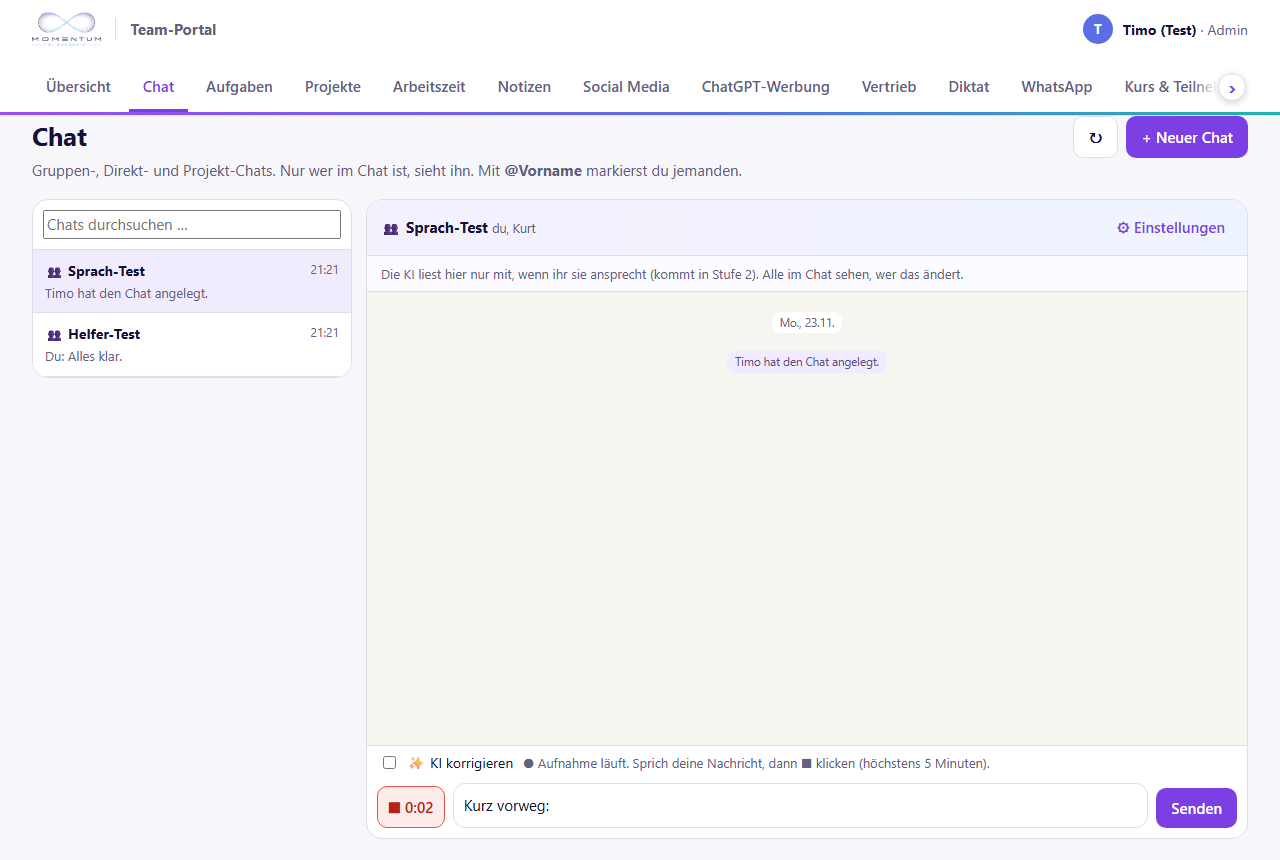
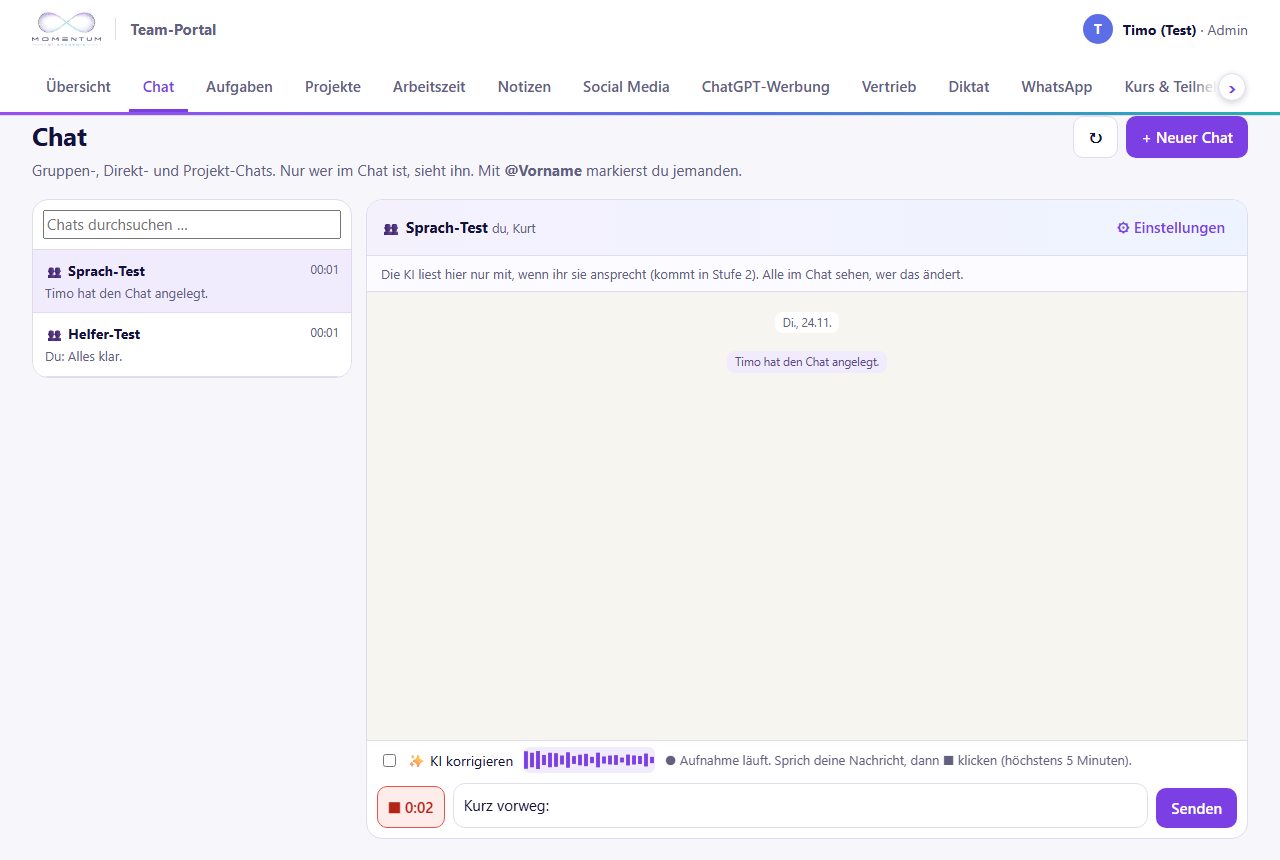
Aufnahme-Pegel im Chat und im Diktat, Zoom-Hinweis beim Gesprächsmitschnitt
Timo 24.11.2026: Beim Aufnehmen soll man sehen, dass aufgezeichnet wird –
Balken, die beim Sprechen ausschlagen. Wichtig beim Diktat, um zu sehen, ob
im Zoom-Gespräch auch die andere Person mit aufgenommen wird.

- pegelStarten(): Web-Audio-Analyse des Mikrofon-Streams, 22 Balken, läuft nur
  im Browser. Kommt etwa 3 Sekunden kein Ton an, erscheint eine Warnung.
- Chat-Sprachnachricht: Pegel neben dem Haken während der Aufnahme.
- Diktat (Verkaufschance und Register Diktat): Pegel neben „Stopp“; beim
  Haken „Gesprächsmitschnitt“ ein Hinweis: Mit Kopfhörern hört das Mikrofon
  die andere Person nicht, Ton auf Lautsprecher und auf den Pegel achten.
- Tests: Pegel sichtbar und schlägt aus (simuliertes Mikrofon), weg nach Stopp;
  Zoom-Hinweis nur beim Mitschnitt. office+chat 141 grün; vertrieb 1 rot wie main.

Changed region(s): [[0.3125, 0.8767, 0.875, 0.907], [0.5938, 0.3628, 0.6562, 0.393]]

diff --git a/docs/team/index.html b/docs/team/index.html
@@ -312,6 +312,8 @@ dialog.voll{width:96vw!important;max-width:96vw;height:94vh;max-height:94vh}
 .vtab tr.klick{cursor:pointer}.vtab tr.klick:hover td{background:#FAF9FE}
 .vnotiz{border-top:1px solid var(--line);padding:10px 0}.vnotiz .kopf{font-size:12.5px;color:var(--mut);margin-bottom:4px}
 .vbald{border:1px dashed #C9C2EE;background:#F7F5FE;border-radius:12px;padding:10px 12px;font-size:13.5px;color:var(--mut);margin:10px 0}
+.pegel{width:132px;height:26px;border-radius:7px;background:#F1ECFD;vertical-align:middle;flex:none}.pegel[hidden]{display:none!important}.pegel.leise{background:#FDECEA}
+.vd-zoom{margin-top:6px;padding:6px 8px;border-radius:8px;background:#FFF4E5;color:#7A4A00}
 .vdiktat{border:1px solid #C9C2EE;background:#F7F5FE;border-radius:12px;padding:10px 12px;font-size:13.5px;margin:10px 0}.vdiktat .act{display:flex;gap:8px;flex-wrap:wrap;align-items:center;margin-top:8px}.vdiktat textarea{width:100%;box-sizing:border-box;font:inherit;border:1px solid var(--line);border-radius:10px;padding:8px}.vdiktat [hidden]{display:none!important}.vdiktat .btn.rec{background:var(--red)}.vdiktat .punkt{display:inline-block;width:10px;height:10px;border-radius:50%;background:#fff;margin-right:6px;animation:vdpuls 1.2s ease-in-out infinite}@keyframes vdpuls{0%,100%{opacity:1}50%{opacity:.3}}@media (prefers-reduced-motion:reduce){.vdiktat .punkt{animation:none}}
 .vtreffer{border:1px solid var(--line);border-radius:10px;margin-top:4px;max-height:200px;overflow:auto}
 .vtreffer button{display:block;width:100%;text-align:left;border:0;border-bottom:1px solid var(--line);background:#fff;padding:7px 10px;cursor:pointer}
@@ -1873,6 +1875,7 @@ body[data-tab="whatsapp"] #kiBtn{display:none}
   }
   function chMikroZeigen() {
     const b = $('#ch_mic'); if (!b) return; const a = CH.aufnahme;
+    const pg = $('#ch_pegel'); if (pg) pg.hidden = !a;
     if (a) { const s = Math.round((Date.now() - a.start) / 1000); b.classList.add('rec'); b.textContent = '⏹ ' + Math.floor(s / 60) + ':' + String(s % 60).padStart(2, '0'); b.title = 'Aufnahme beenden und als Text einfügen'; b.disabled = false; }
     else { b.classList.remove('rec'); b.textContent = CH.diktat ? '…' : '🎙'; b.disabled = !!CH.diktat || !chMikroDa(); b.title = chMikroDa() ? 'Sprachnachricht: einsprechen, wird als Text eingefügt' : 'Aufnahme wird in diesem Browser nicht unterstützt'; }
   }
@@ -1885,10 +1888,12 @@ body[data-tab="whatsapp"] #kiBtn{display:none}
     const typ = ['audio/webm;codecs=opus', 'audio/webm', 'audio/mp4', 'audio/ogg;codecs=opus'].find(m => { try { return MediaRecorder.isTypeSupported(m); } catch (e) { return false; } }) || '';
     let rec; try { rec = new MediaRecorder(stream, typ ? { mimeType: typ } : undefined); } catch (e) { stream.getTracks().forEach(t => t.stop()); return chStatus(id, 'Die Aufnahme konnte nicht gestartet werden: ' + e.message); }
     const teile = [];
-    CH.aufnahme = { rec, stream, start: Date.now(), chat: id, timer: setInterval(() => { chMikroZeigen(); if (CH.aufnahme && Date.now() - CH.aufnahme.start > HELFER_AUFNAHME_MAX_SEK * 1000) rec.stop(); }, 500) };
+    const laeuftText = '⏺ Aufnahme läuft. Sprich deine Nachricht, dann ⏹ klicken (höchstens 5 Minuten).';
+    const pegel = pegelStarten(stream, () => $('#ch_pegel'), { onLeise: l => chStatus(id, l ? '⚠ Seit ein paar Sekunden kommt kein Ton an. Ist das richtige Mikrofon gewählt und nicht stumm?' : laeuftText) });
+    CH.aufnahme = { rec, stream, pegel, start: Date.now(), chat: id, timer: setInterval(() => { chMikroZeigen(); if (CH.aufnahme && Date.now() - CH.aufnahme.start > HELFER_AUFNAHME_MAX_SEK * 1000) rec.stop(); }, 500) };
     rec.ondataavailable = e => { if (e.data && e.data.size) teile.push(e.data); };
     rec.onstop = async () => {
-      const a = CH.aufnahme; CH.aufnahme = null; clearInterval(a.timer); stream.getTracks().forEach(t => t.stop());
+      const a = CH.aufnahme; CH.aufnahme = null; clearInterval(a.timer); a.pegel.stopp(); stream.getTracks().forEach(t => t.stop());
       const dauer = Math.round((Date.now() - a.start) / 1000), mt = rec.mimeType || typ || 'audio/webm', blob = new Blob(teile, { type: mt });
       if (blob.size < 1000 || dauer < 1) { chMikroZeigen(); return chStatus(id, 'Die Aufnahme war zu kurz.'); }
       CH.diktat = id; chMikroZeigen(); chStatus(id, '🎙 Wird in Text umgewandelt …');
@@ -1902,7 +1907,7 @@ body[data-tab="whatsapp"] #kiBtn{display:none}
       } catch (e) { chStatus(id, e.message); }
       finally { CH.diktat = null; chMikroZeigen(); }
     };
-    rec.start(1000); chMikroZeigen(); chStatus(id, '⏺ Aufnahme läuft. Sprich deine Nachricht, dann ⏹ klicken (höchstens 5 Minuten).');
+    rec.start(1000); chMikroZeigen(); chStatus(id, laeuftText);
   }
   async function chatApi(aktion, daten) {
     const r = await fetch(CHAT_API, { method: 'POST', headers: { 'Content-Type': 'text/plain;charset=UTF-8' }, body: JSON.stringify({ token: TOKEN, aktion, daten: daten || {} }) });
@@ -2076,7 +2081,7 @@ body[data-tab="whatsapp"] #kiBtn{display:none}
       (c.projekt ? '<details class="ch-proj"><summary>📁 Offene Aufgaben in „' + esc(c.projekt) + '“ (' + offeneA.length + ')</summary>' + (offeneA.length ? offeneA.slice(0, 8).map(a => '<button type="button" class="ch-aufg" data-a="' + esc(a.aufgabe_id) + '"><span class="chip ' + prioKl(a.prio) + '">P' + esc(a.prio) + '</span> ' + esc(a.titel) + '</button>').join('') : '<p class="small muted">Keine offenen Aufgaben.</p>') + '</details>' : '') +
       '<div class="wc-msgs" id="ch_msgs">' + (msgs || '<p class="muted" style="align-self:center">Noch keine Nachrichten.</p>') + '</div>' +
       '<div id="ch_hinw"></div>' +
-      '<div class="ch-werk"><label class="check" title="Die KI korrigiert Rechtschreibung und Zeichensetzung, der Inhalt bleibt. Du siehst die Fassung, bevor sie rausgeht."><input type="checkbox" id="ch_kik"' + (chKiHaken() ? ' checked' : '') + '><span>✨ KI korrigieren</span></label><span id="ch_mstat" class="ch-mstat" aria-live="polite"></span></div>' +
+      '<div class="ch-werk"><label class="check" title="Die KI korrigiert Rechtschreibung und Zeichensetzung, der Inhalt bleibt. Du siehst die Fassung, bevor sie rausgeht."><input type="checkbox" id="ch_kik"' + (chKiHaken() ? ' checked' : '') + '><span>✨ KI korrigieren</span></label><canvas class="pegel" id="ch_pegel" hidden aria-hidden="true" title="Pegel: schlägt aus, wenn das Mikrofon etwas hört"></canvas><span id="ch_mstat" class="ch-mstat" aria-live="polite"></span></div>' +
       '<form class="wc-ein" id="ch_form"><button type="button" class="btn sec ch-mic" id="ch_mic" aria-label="Sprachnachricht aufnehmen">🎙</button><textarea id="ch_text" rows="1" maxlength="' + CHAT_TEXT_MAX + '" placeholder="Nachricht … (Enter sendet, Umschalt+Enter = neue Zeile, @Vorname markiert)">' + esc(CH.entwurf[id] || '') + '</textarea><button class="btn" type="submit" id="ch_senden">Senden</button></form>';
     const box = $('#ch_msgs'); if (box && (warUnten || !scroll)) box.scrollTop = box.scrollHeight;
     $('#ch_zur').onclick = () => { CH.offen = null; setzeHash('#/tab/chat'); $('#ch').classList.remove('offen'); chListeZeigen(); chChatZeigen(); };
@@ -2539,10 +2544,56 @@ body[data-tab="whatsapp"] #kiBtn{display:none}
   // ---------- Diktat (Spracherkennung für Gesprächsnotizen, n8n-Workflow „TEAM: Diktat“) ----------
   // Aufnahme im Browser (MediaRecorder) oder Audiodatei → n8n → OpenAI-Transkription + KI-Bereinigung → bearbeitbarer Text → Aktivität in Twenty.
   // Gespeichert wird erst nach Klick auf „Als Aktivität speichern“. Vorbild: WhisperM (Flowtimotion-cyber/WhisperM, MIT).
+  // Pegelanzeige für Aufnahmen (Chat-Sprachnachricht und Diktat): Balken, die beim Sprechen ausschlagen, aus dem Mikrofon-Stream
+  // (Web Audio, nur im Browser, nichts wird gesendet). Kommt etwa 3 Sekunden lang kein Ton an, meldet onLeise(true), z. B. wenn
+  // im Zoom-Gespräch Kopfhörer stecken und das Mikrofon die andere Person nicht hört. canvasHolen liefert jedes Mal das aktuelle
+  // Element (das Portal zeichnet Bereiche neu). Am Canvas steht data-pegel (0–100) für Tests.
+  function pegelStarten(stream, canvasHolen, opts) {
+    opts = opts || {};
+    const AC = window.AudioContext || window.webkitAudioContext;
+    if (!AC || !stream) return { stopp() {} };
+    let ctx, quelle, an;
+    try { ctx = new AC(); quelle = ctx.createMediaStreamSource(stream); an = ctx.createAnalyser(); an.fftSize = 512; an.smoothingTimeConstant = 0.55; quelle.connect(an); }
+    catch (e) { return { stopp() {} }; }
+    if (ctx.state === 'suspended') ctx.resume().catch(() => {});
+    const freq = new Uint8Array(an.frequencyBinCount), welle = new Uint8Array(an.fftSize);
+    const BALKEN = 22, farbe = getComputedStyle(document.documentElement).getPropertyValue('--acc').trim() || '#6D3BD8';
+    let aus = false, raf = 0, leiseSeit = performance.now(), warLeise = false;
+    const malen = () => {
+      if (aus) return;
+      an.getByteFrequencyData(freq); an.getByteTimeDomainData(welle);
+      let q = 0; for (let i = 0; i < welle.length; i++) { const x = (welle[i] - 128) / 128; q += x * x; }
+      const laut = Math.sqrt(q / welle.length), jetzt = performance.now();
+      if (laut > 0.015) leiseSeit = jetzt;
+      const leise = jetzt - leiseSeit > 3000;
+      if (leise !== warLeise) { warLeise = leise; if (opts.onLeise) opts.onLeise(leise); }
+      const c = canvasHolen();
+      if (c && c.isConnected) {
+        const dpr = window.devicePixelRatio || 1, w = Math.max(1, Math.round(c.clientWidth * dpr)), h = Math.max(1, Math.round(c.clientHeight * dpr));
+        if (c.width !== w || c.height !== h) { c.width = w; c.height = h; }
+        const g = c.getContext('2d'); g.clearRect(0, 0, w, h);
+        const nutz = Math.floor(freq.length * 0.45), breit = w / BALKEN;
+        let max = 0;
+        for (let b = 0; b < BALKEN; b++) {
+          let summe = 0; const von = Math.floor(b * nutz / BALKEN), bis = Math.max(von + 1, Math.floor((b + 1) * nutz / BALKEN));
+          for (let i = von; i < bis; i++) summe += freq[i];
+          const wert = summe / (bis - von) / 255; max = Math.max(max, wert);
+          const bh = Math.max(2 * dpr, wert * (h - 4 * dpr));
+          g.fillStyle = leise ? '#C9BFE6' : farbe;
+          g.fillRect(b * breit + breit * 0.18, (h - bh) / 2, breit * 0.64, bh);
+        }
+        c.dataset.pegel = String(Math.round(max * 100)); c.classList.toggle('leise', leise);
+      }
+      raf = requestAnimationFrame(malen);
+    };
+    malen();
+    return { stopp() { aus = true; cancelAnimationFrame(raf); try { quelle.disconnect(); ctx.close(); } catch (e) {} } };
+  }
   function diktatBox() {
     return '<div class="vdiktat" id="v_diktat"><div>🎙 <b>Diktat nach dem Gespräch</b> <span class="small muted">Sprich ein, was besprochen wurde. Die KI schreibt es sauber auf und fasst zusammen. Gespeichert wird erst, wenn du auf „Als Aktivität speichern“ klickst.</span></div>' +
-      '<div class="act"><button type="button" class="btn" id="vd_rec">🎙 Aufnehmen</button><button type="button" class="btn rec" id="vd_stop" hidden><span class="punkt"></span>Stopp · <span id="vd_zeit">0:00</span></button><button type="button" class="btn sec" id="vd_wahl">Audiodatei wählen</button><input type="file" id="vd_datei" accept="audio/*,video/webm,video/mp4" hidden>' +
+      '<div class="act"><button type="button" class="btn" id="vd_rec">🎙 Aufnehmen</button><button type="button" class="btn rec" id="vd_stop" hidden><span class="punkt"></span>Stopp · <span id="vd_zeit">0:00</span></button><canvas class="pegel" id="vd_pegel" hidden aria-hidden="true" title="Pegel: schlägt aus, wenn das Mikrofon etwas hört"></canvas><button type="button" class="btn sec" id="vd_wahl">Audiodatei wählen</button><input type="file" id="vd_datei" accept="audio/*,video/webm,video/mp4" hidden>' +
       '<label class="check small" style="margin:0" title="Mitschnitte von Gesprächen nur mit Einwilligung aller Beteiligten (§ 201 StGB)"><input type="checkbox" id="vd_mit"><span>Gesprächsmitschnitt, alle Beteiligten haben zugestimmt</span></label></div>' +
+      '<div class="vd-zoom small" id="vd_zoom" hidden>🎧 <b>Zoom oder Telefon über den Computer:</b> Aufgenommen wird nur, was das Mikrofon hört. Mit Kopfhörern hört es die andere Person nicht. Stell den Ton auf Lautsprecher und achte auf den Pegel: Er muss auch ausschlagen, wenn die andere Person spricht.</div>' +
       '<div id="vd_status" class="small muted" aria-live="polite" style="margin-top:6px"></div>' +
       '<div id="vd_erg" hidden><div class="f" style="margin-top:8px"><label for="vd_text">Ergebnis (bitte gegenlesen, du kannst es ändern)</label><textarea id="vd_text" rows="9" maxlength="50000"></textarea></div><div class="small muted" id="vd_meta"></div>' +
       '<details class="small" style="margin:6px 0"><summary>Rohtranskript anzeigen</summary><div id="vd_roh" style="white-space:pre-wrap;margin-top:4px"></div></details>' +
@@ -2555,8 +2606,10 @@ body[data-tab="whatsapp"] #kiBtn{display:none}
     const status = t => { const e = $('#vd_status'); if (e) e.textContent = t || ''; };
     const unterstuetzt = !!(navigator.mediaDevices && navigator.mediaDevices.getUserMedia && window.MediaRecorder);
     if (!unterstuetzt) { $('#vd_rec').disabled = true; status('Aufnahme wird in diesem Browser nicht unterstützt. Du kannst eine Audiodatei wählen.'); }
-    let rec = null, teile = [], start = 0, timer = null, stream = null;
+    let rec = null, teile = [], start = 0, timer = null, stream = null, pegel = { stopp() {} };
     const MAX_SEK = 30 * 60;
+    const zoomHinweis = () => { const z = $('#vd_zoom'); if (z) z.hidden = !$('#vd_mit').checked; };
+    $('#vd_mit').addEventListener('change', zoomHinweis); zoomHinweis();
     const zeit = () => { const s = Math.round((Date.now() - start) / 1000); const z = $('#vd_zeit'); if (z) z.textContent = Math.floor(s / 60) + ':' + String(s % 60).padStart(2, '0'); if (s >= MAX_SEK) stopp(); };
     const mime = () => ['audio/webm;codecs=opus', 'audio/webm', 'audio/mp4', 'audio/ogg;codecs=opus'].find(m => { try { return MediaRecorder.isTypeSupported(m); } catch (e) { return false; } }) || '';
     async function aufnehmen() {
@@ -2566,7 +2619,7 @@ body[data-tab="whatsapp"] #kiBtn{display:none}
       try { rec = new MediaRecorder(stream, m ? { mimeType: m } : undefined); } catch (e) { stream.getTracks().forEach(t => t.stop()); return status('Die Aufnahme konnte nicht gestartet werden: ' + e.message); }
       rec.ondataavailable = e => { if (e.data && e.data.size) teile.push(e.data); };
       rec.onstop = () => {
-        stream.getTracks().forEach(t => t.stop()); clearInterval(timer);
+        stream.getTracks().forEach(t => t.stop()); clearInterval(timer); pegel.stopp(); if ($('#vd_pegel')) $('#vd_pegel').hidden = true;
         const dauer = Math.round((Date.now() - start) / 1000), typ = rec.mimeType || m || 'audio/webm', blob = new Blob(teile, { type: typ });
         if ($('#vd_rec')) { $('#vd_rec').hidden = false; $('#vd_stop').hidden = true; }
         if (blob.size < 1000 || dauer < 1) return status('Die Aufnahme war zu kurz.');
@@ -2574,7 +2627,10 @@ body[data-tab="whatsapp"] #kiBtn{display:none}
       };
       start = Date.now(); rec.start(1000); timer = setInterval(zeit, 500); zeit();
       $('#vd_rec').hidden = true; $('#vd_stop').hidden = false; if (c) dlgGeaendert = true;
-      status('Aufnahme läuft. Sprich deine Notiz ein und klick dann auf Stopp.');
+      const laeuft = () => $('#vd_mit') && $('#vd_mit').checked ? 'Aufnahme läuft. Achte auf den Pegel: Er muss bei beiden Stimmen ausschlagen.' : 'Aufnahme läuft. Sprich deine Notiz ein und klick dann auf Stopp.';
+      if ($('#vd_pegel')) $('#vd_pegel').hidden = false;
+      pegel = pegelStarten(stream, () => $('#vd_pegel'), { onLeise: l => status(l ? '⚠ Seit ein paar Sekunden kommt kein Ton an. Ist das richtige Mikrofon gewählt und nicht stumm?' : laeuft()) });
+      status(laeuft());
     }
     function stopp() { if (rec && rec.state !== 'inactive') rec.stop(); }
     async function senden(blob, dauer, name) {
